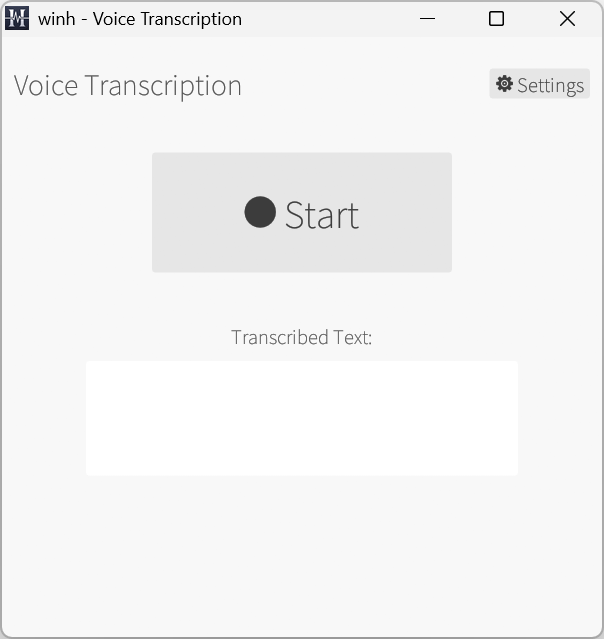
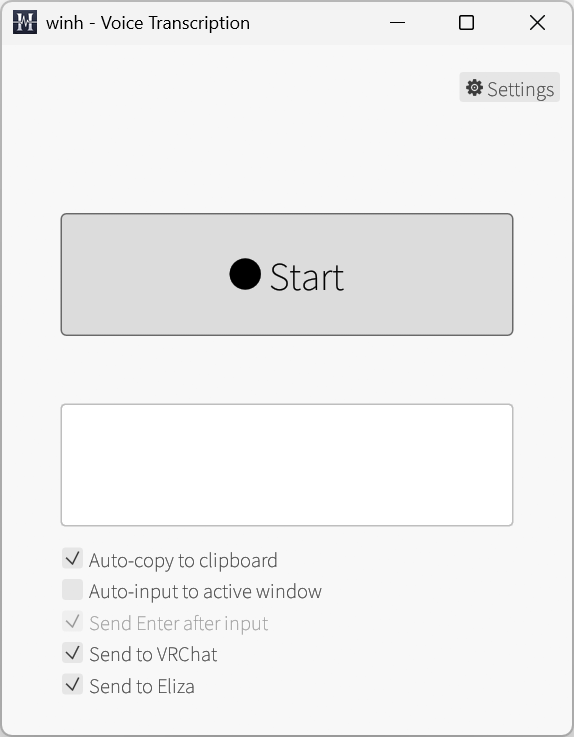
Update document

diff --git a/README.md b/README.md
@@ -2,6 +2,11 @@
 
 Windows 11向けの音声入力・文字起こしGUIアプリケーション
 
+## 概要
+
+winh は音声入力を簡単に文字起こしできるシンプルなデスクトップアプリケーションです。
+OpenAI Whisper API を使用して高精度な音声認識を提供します。
+
 <p align="center">
   <img src="./resources/img/winh0.png" width="30%" />
   <img src="./resources/img/winh1.png" width="30%" />
@@ -14,82 +19,84 @@ Windows 11向けの音声入力・文字起こしGUIアプリケーション
 
 `winh.exe` をダウンロードして実行するだけで使用できます（インストーラー不要）。
 
-## 概要
-
-winhは、音声入力を簡単に文字起こしできるシンプルなデスクトップアプリケーションです。OpenAI Whisper APIを使用して、高精度な音声認識を提供します。
-
-### 主な機能
+## 主な機能
 
 - **ワンクリック録音**: 大きなスタート/停止ボタンで簡単に音声入力開始
-- **グローバルホットキー**: Ctrl+Shift+H で録音開始（他のアプリにフォーカスがあっても動作、カスタマイズ可能）
+- **グローバルホットキー**: Ctrl+Shift+H で録音開始
+  - 他のアプリにフォーカスがあっても動作
+  - ショートカットキーはカスタマイズ可能
 - **自動無音検出**: 設定した秒数の無音を検出すると自動的に録音停止
-  - 録音開始後3秒間は無音検出を無効化（話し始めのゆとり）
-  - 先頭の無音を自動トリミング（0.2秒のみ保持）
-- **視覚的フィードバック**:
-  - 無音時間の進捗表示（ボタン下部が水色で塗りつぶされる）
-  - リアルタイム音量インジケーター（灰色/緑/赤で色分け）
-- **高精度文字起こし**: OpenAI Whisper API (gpt-4o-transcribe) による文字起こし
 - **クリップボード連携**: 文字起こし結果を自動的にクリップボードにコピー
-- **入力デバイス選択**: 使用するマイクデバイスを設定画面から選択可能
-- **設定管理**: API キー、モデル、無音検出時間、無音判定しきい値、入力デバイスの保存
-- **エラー表示**: API キー未設定やネットワークエラーを視覚的に表示
-- **軽量**: 単一のexeファイルで動作（インストーラー不要、約30MB）
-- **モノラル録音**: Windows デフォルト音声入力をモノラルで録音
+- **自動入力**: 文字起こし完了後、アクティブなテキストフィールドに自動で入力
+- **VRChat 連携**: VRChat のチャット入力に直接文字起こし結果を送信するオプション
+- **Eliza 連携**: Eliza Agent に文字起こし結果を送信するオプション
 
 ## 使い方
 
 ### 初回起動時の設定
 
-1. `winh.exe` を実行
-2. 画面下部に「⚠ API key not set」の警告が表示されます
+1. ダウンロード後 `winh.exe` を実行
+2. 「⚠ API key not set」の警告が表示されます
 3. 右上の「⚙ Settings」ボタンをクリック
 4. **OpenAI API Key** を入力（必須）
-   - OpenAI のアカウントから取得: https://platform.openai.com/api-keys
+  - OpenAI のアカウントから取得: https://platform.openai.com/api-keys
 5. その他の設定（オプション）:
-   - **Model**: 使用するモデル（デフォルト: `gpt-4o-transcribe`）
-   - **Silence Duration (seconds)**: 無音検出の秒数（デフォルト: 2.0秒）
-     - 0.5〜10.0秒の範囲で設定可能
-   - **Silence Threshold**: 無音判定のしきい値（デフォルト: 0.01）
-     - 0.001〜0.3の範囲で設定可能（対数スケール）
-     - 小さくすると感度が高くなり、小さい音でも検出します
-     - 大きくすると感度が低くなり、大きい音だけ検出します
-   - **Input Device**: 使用するマイクデバイス（デフォルト: Windows既定）
-     - ドロップダウンから任意のマイクデバイスを選択可能
-   - **Hotkey**: グローバルホットキー（デフォルト: Ctrl+Shift+H）
-     - 形式: `Ctrl+Shift+H`, `Alt+1`, `Ctrl+Alt+F1` など
-     - 対応修飾キー: Ctrl, Shift, Alt, Super/Win
-     - 対応キー: A-Z, 0-9, F1-F12
+  - **Model**: 使用するモデル（デフォルト: `gpt-4o-transcribe`）
+  - **Silence Duration (seconds)**: 無音検出の秒数（デフォルト: 1.3秒）
+  - **Silence Threshold**: 無音判定のしきい値
+    - 小さくすると感度が高くなり、小さい音でも検出します
+    - 大きくすると感度が低くなり、大きい音だけ検出します
+  - **Input Device**: 使用するマイクデバイス（デフォルト: Windows既定）
+  - **Hotkey**: グローバルホットキー（デフォルト: Ctrl+Shift+H）
+    - 形式: `Ctrl+Shift+H`, `Alt+1`, `Ctrl+Alt+F1` など
+    - 対応修飾キー: Ctrl, Shift, Alt, Super/Win
+    - 対応キー: A-Z, 0-9, F1-F12
 6. 「Save」をクリックして設定を保存
 
 ### 音声入力と文字起こし
 
 1. **録音開始**: 以下のいずれかの方法で開始
-   - 中央の「⏺ Start」ボタンをクリック
-   - **設定したホットキー**を押す（デフォルト: Ctrl+Shift+H、他のアプリにフォーカスがあっても動作）
+  - 中央の「⏺ Start」ボタンをクリック
+  - または **設定したホットキー**を押す
 2. **音声入力**: マイクに向かって話す
-   - 録音開始後3秒間は無音検出されません（話し始めにゆとり）
-   - 録音中はサンプル数と無音時間が表示されます
-   - **Stop ボタンの表示**:
-     - 下部が水色で塗りつぶされる: 無音時間の進捗（100%で自動停止）
-   - **音量インジケーター** (ボタン下):
-     - 灰色: 無音（しきい値以下）
-     - 緑色: 通常の音量（しきい値〜1.0）
-     - 赤色: クリッピング範囲（1.0以上）
+  - 録音開始後3秒間は無音検出されません
+  - 録音中はサンプル数と無音時間が表示されます
 3. **録音停止**: 以下のいずれかで停止
-   - 設定した秒数（デフォルト2秒）の無音で自動停止
+   - 設定した秒数（デフォルト1.3秒）の無音で自動停止
    - 手動で「⏹ Stop」ボタンをクリック
 4. **文字起こし**: 録音停止後、自動的にWhisper APIに送信
    - 状態メッセージに「Transcribing audio...」と表示
    - 完了すると「Transcription completed!」と表示
 5. **結果**:
    - 文字起こし結果が画面の「Transcribed Text」エリアに表示
-   - 自動的にクリップボードにコピーされます
 
-### エラーが発生した場合
+### チェックボックスの設定
 
-- **API key未設定**: 画面下部にオレンジ色の警告が表示されます
-- **ネットワークエラー**: 赤色でエラーメッセージが表示されます
-- **その他のエラー**: 詳細なエラーメッセージが画面下部に表示されます
+- **Auto-copy to clipboard**: 文字起こし結果を自動的にクリップボードにコピーする
+- **Auto-input to active window**: 文字起こし完了後、アクティブなテキストフィールドに自動で入力する
+- **Send Enter after input**: 自動入力後にEnterキーを送信する
+- **Send to VRChat**: VRChat のチャット入力に直接文字起こし結果を送信する
+- **Send to Eliza**: Eliza Agent に文字起こし結果を送信する
+
+### VRChat 連携
+
+VRChat 内でのミュート操作をトリガーとして録音を開始できます。
+
+**ミュートトリガーで録音開始**
+
+VRChat でミュートを「OFF → ON」と素早く（1秒以内に）切り替えると、winh が自動的に録音を開始します。
+つまり VR コントローラーのミュートボタンをダブルタップするイメージです。
+
+- VRChat の OSC 送信を有効にしておく必要があります（VRChat 設定 → OSC → Enable）
+- winh はポート `9001` で OSC を受信します
+
+**Eliza 連携と GestureRight**
+
+「Send to Eliza」が有効な場合、VRChat の右手ジェスチャー（GestureRight）の値によって Eliza モードに切り替わります。
+
+- ミュートトリガーで録音を開始する際、GestureRight の値が設定値（デフォルト: 7 = ThumbsUp）と一致していれば、文字起こし結果を Eliza Agent に送信します
+- Eliza の返答は VRChat チャットボックスに表示されます（「Send to VRChat」が有効な場合）
+- ジェスチャーの値は設定画面の「Eliza Gesture」スライダーで変更できます（0〜7）
 
 ## ライセンス
 
